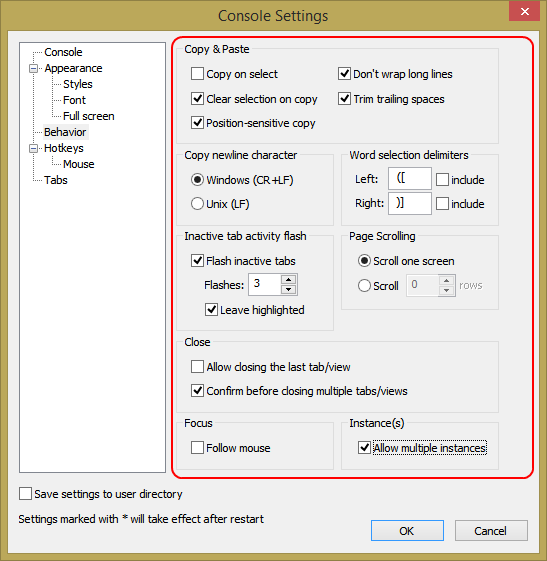
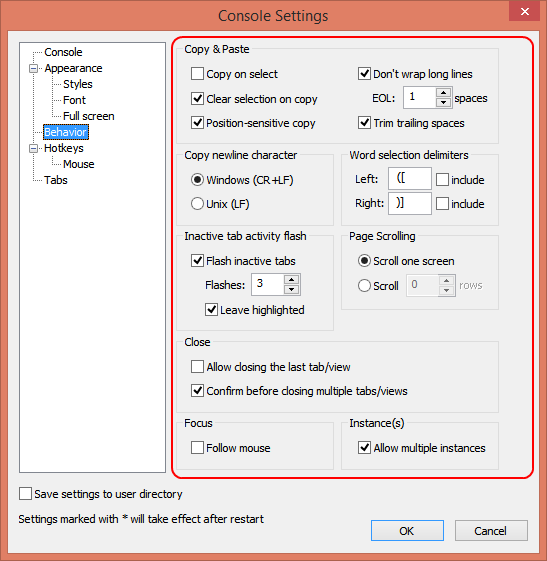
#70 can configure the number of spaces used to detect an end of line

diff --git a/help/html/settings_behavior.html b/help/html/settings_behavior.html
@@ -47,6 +47,11 @@
 		doesn't end with a space, a line break will not be inserted before
 		adding the next row.
 	</p>
+
+	<p class="block-row-name">EOL</p>
+	<p class="block-row-description">
+		Indicates the number of spaces used to detect an end of line.
+	</p>
 	<br />
 
 	<p class="block-row-name">Trim trailing spaces</p>
@@ -93,7 +98,7 @@
 		If checked, the inactive tabs flashes when some activities are detected in the corresponding console.
 	</p>
 
-	<p class="block-row-name">Falshes</p>
+	<p class="block-row-name">Flashes</p>
 	<p class="block-row-description">
 		Indicate the number of times an inactive tab will flash when some activities are detected in the corresponding console.
 	</p>

diff --git a/Console/DlgSettingsBehavior.cpp b/Console/DlgSettingsBehavior.cpp
@@ -59,6 +59,13 @@ LRESULT DlgSettingsBehavior::OnInitDialog(UINT /*uMsg*/, WPARAM /*wParam*/, LPAR
 	spin.SetAccel(1, &udAccel);
 	spin.Detach();
 
+	spin.Attach(GetDlgItem(IDC_SPIN_EOL_SPACES));
+	spin.SetRange(1, 15);
+	udAccel.nSec = 2;
+	udAccel.nInc = 1;
+	spin.SetAccel(1, &udAccel);
+	spin.Detach();
+
 	DoDataExchange(DDX_LOAD);
 
 	EnableScrollControls();
@@ -124,6 +131,18 @@ LRESULT DlgSettingsBehavior::OnClickedFlashTab(WORD /*wNotifyCode*/, WORD /*wID*
 
 
 //////////////////////////////////////////////////////////////////////////////
+
+LRESULT DlgSettingsBehavior::OnClickedNoWrap(WORD /*wNotifyCode*/, WORD /*wID*/, HWND /*hWndCtl*/, BOOL& /*bHandled*/)
+{
+	DoDataExchange(DDX_SAVE);
+	EnableNoWrapControls();
+	return 0;
+}
+
+//////////////////////////////////////////////////////////////////////////////
+
+
+//////////////////////////////////////////////////////////////////////////////
 //////////////////////////////////////////////////////////////////////////////
 //////////////////////////////////////////////////////////////////////////////
 
@@ -160,6 +179,7 @@ void DlgSettingsBehavior::EnableFlashTabControls()
 	GetDlgItem(IDC_TAB_FLASHES).EnableWindow(FALSE);
 	GetDlgItem(IDC_SPIN_TAB_FLASHES).EnableWindow(FALSE);
 	GetDlgItem(IDC_CHECK_LEAVE_HIGHLIGHTED).EnableWindow(FALSE);
+	GetDlgItem(IDC_STATIC_FLASHES).EnableWindow(FALSE);
 
 	if (m_bFlashInactiveTab)
 	{
@@ -172,7 +192,21 @@ void DlgSettingsBehavior::EnableFlashTabControls()
 		GetDlgItem(IDC_TAB_FLASHES).EnableWindow();
 		GetDlgItem(IDC_SPIN_TAB_FLASHES).EnableWindow();
 		GetDlgItem(IDC_CHECK_LEAVE_HIGHLIGHTED).EnableWindow();
+		GetDlgItem(IDC_STATIC_FLASHES).EnableWindow();
 	}
+}
+
+//////////////////////////////////////////////////////////////////////////////
+
+
+//////////////////////////////////////////////////////////////////////////////
+
+void DlgSettingsBehavior::EnableNoWrapControls()
+{
+	GetDlgItem(IDC_EOL_SPACES).EnableWindow(m_behaviorSettings.copyPasteSettings.bNoWrap);
+	GetDlgItem(IDC_SPIN_EOL_SPACES).EnableWindow(m_behaviorSettings.copyPasteSettings.bNoWrap);
+	GetDlgItem(IDC_STATIC_EOL_SPACES_1).EnableWindow(m_behaviorSettings.copyPasteSettings.bNoWrap);
+	GetDlgItem(IDC_STATIC_EOL_SPACES_2).EnableWindow(m_behaviorSettings.copyPasteSettings.bNoWrap);
 }
 
 //////////////////////////////////////////////////////////////////////////////

diff --git a/Console/SettingsHandler.cpp b/Console/SettingsHandler.cpp
@@ -846,6 +846,7 @@ CopyPasteSettings::CopyPasteSettings()
 , bIncludeRightDelimiter(false)
 , strLeftDelimiters(L" ([")
 , strRightDelimiters(L" )]")
+, dwEOLSpaces(1)
 {
 }
 
@@ -866,6 +867,7 @@ bool CopyPasteSettings::Load(const CComPtr<IXMLDOMElement>& pSettingsRoot)
 	XmlHelper::GetAttribute(pCopyPasteElement, CComBSTR(L"clear_on_copy"), bClearOnCopy, true);
 	XmlHelper::GetAttribute(pCopyPasteElement, CComBSTR(L"sensitive_copy"), bSensitiveCopy, true);
 	XmlHelper::GetAttribute(pCopyPasteElement, CComBSTR(L"no_wrap"), bNoWrap, false);
+	XmlHelper::GetAttribute(pCopyPasteElement, CComBSTR(L"eol_spaces"), dwEOLSpaces, 1);
 	XmlHelper::GetAttribute(pCopyPasteElement, CComBSTR(L"trim_spaces"), bTrimSpaces, false);
 	XmlHelper::GetAttribute(pCopyPasteElement, CComBSTR(L"copy_newline_char"), nNewlineChar, 0);
 	XmlHelper::GetAttribute(pCopyPasteElement, CComBSTR(L"include_left_delimiter"), bIncludeLeftDelimiter, false);
@@ -893,6 +895,7 @@ bool CopyPasteSettings::Save(const CComPtr<IXMLDOMElement>& pSettingsRoot)
 	XmlHelper::SetAttribute(pCopyPasteElement, CComBSTR(L"clear_on_copy"), bClearOnCopy);
 	XmlHelper::SetAttribute(pCopyPasteElement, CComBSTR(L"sensitive_copy"), bSensitiveCopy);
 	XmlHelper::SetAttribute(pCopyPasteElement, CComBSTR(L"no_wrap"), bNoWrap);
+	XmlHelper::SetAttribute(pCopyPasteElement, CComBSTR(L"eol_spaces"), dwEOLSpaces);
 	XmlHelper::SetAttribute(pCopyPasteElement, CComBSTR(L"trim_spaces"), bTrimSpaces);
 	XmlHelper::SetAttribute(pCopyPasteElement, CComBSTR(L"copy_newline_char"), static_cast<int>(copyNewlineChar));
 
@@ -921,6 +924,7 @@ CopyPasteSettings& CopyPasteSettings::operator=(const CopyPasteSettings& other)
 	bIncludeRightDelimiter	= other.bIncludeRightDelimiter;
 	strLeftDelimiters	= other.strLeftDelimiters;
 	strRightDelimiters	= other.strRightDelimiters;
+	dwEOLSpaces = other.dwEOLSpaces;
 
 	return *this;
 }

diff --git a/Console/DlgSettingsBehavior.h b/Console/DlgSettingsBehavior.h
@@ -25,6 +25,7 @@ class DlgSettingsBehavior
 			DDX_CHECK(IDC_CHECK_CLEAR_ON_COPY, m_behaviorSettings.copyPasteSettings.bClearOnCopy)
 			DDX_CHECK(IDC_CHECK_SENSITIVE_COPY, m_behaviorSettings.copyPasteSettings.bSensitiveCopy)
 			DDX_CHECK(IDC_CHECK_NO_WRAP, m_behaviorSettings.copyPasteSettings.bNoWrap)
+			DDX_UINT(IDC_EOL_SPACES, m_behaviorSettings.copyPasteSettings.dwEOLSpaces)
 			DDX_CHECK(IDC_CHECK_TRIM_SPACES, m_behaviorSettings.copyPasteSettings.bTrimSpaces)
 			DDX_RADIO(IDC_RADIO_COPY_NEWLINE_CHAR, m_nCopyNewlineChar)
 			DDX_RADIO(IDC_PAGE_SCROLL, m_nScrollPageType)
@@ -51,6 +52,7 @@ class DlgSettingsBehavior
 			COMMAND_ID_HANDLER(IDCANCEL, OnCloseCmd)
 			COMMAND_RANGE_CODE_HANDLER(IDC_PAGE_SCROLL, IDC_PAGE_SCROLL2, BN_CLICKED, OnClickedScrollType)
 			COMMAND_HANDLER(IDC_CHECK_FLASH_TAB, BN_CLICKED, OnClickedFlashTab)
+			COMMAND_HANDLER(IDC_CHECK_NO_WRAP, BN_CLICKED, OnClickedNoWrap)
 		END_MSG_MAP()
 
 // Handler prototypes (uncomment arguments if needed):
@@ -63,11 +65,13 @@ class DlgSettingsBehavior
 		LRESULT OnCloseCmd(WORD /*wNotifyCode*/, WORD wID, HWND /*hWndCtl*/, BOOL& /*bHandled*/);
 		LRESULT OnClickedScrollType(WORD /*wNotifyCode*/, WORD /*wID*/, HWND /*hWndCtl*/, BOOL& /*bHandled*/);
 		LRESULT OnClickedFlashTab(WORD /*wNotifyCode*/, WORD /*wID*/, HWND /*hWndCtl*/, BOOL& /*bHandled*/);
+		LRESULT OnClickedNoWrap(WORD /*wNotifyCode*/, WORD /*wID*/, HWND /*hWndCtl*/, BOOL& /*bHandled*/);
 
 	private:
 
 		void EnableScrollControls();
 		void EnableFlashTabControls();
+		void EnableNoWrapControls();
 
 
 	private:

diff --git a/ConsoleHook/ConsoleHandler.cpp b/ConsoleHook/ConsoleHandler.cpp
@@ -520,7 +520,7 @@ public:
   virtual void StartRow(void) = 0;
   virtual void EndRow(void) = 0;
   virtual void AddChar(PCHAR_INFO) = 0;
-  virtual bool IsLastCharBlank(void) = 0;
+  virtual bool IsEOL(DWORD dwEOLSpaces) = 0;
   virtual size_t GetRowLength(void) = 0;
   virtual void TrimRight(void) = 0;
   virtual void Wrap(CopyNewlineChar) = 0;
@@ -582,12 +582,12 @@ public:
   {
     strRow += p->Char.UnicodeChar;
   }
-  virtual bool IsLastCharBlank(void)
+  virtual bool IsEOL(DWORD dwEOLSpaces)
   {
 		size_t len = strRow.length();
-		if( len < 3 ) return false;
+		if( len < dwEOLSpaces ) return false;
 
-		for(size_t i = (len - 3); i < len; ++i)
+		for(size_t i = (len - dwEOLSpaces); i < len; ++i)
 			if( strRow[i] != L' ' )
 				return false;
 
@@ -739,7 +739,7 @@ public:
     sizeRowLen ++;
     sizeRtfLen ++;
   }
-  virtual bool IsLastCharBlank(void)
+  virtual bool IsEOL(DWORD /*dwEOLSpaces*/)
   {
     return !strTrimRowRtf.empty();
   }
@@ -899,7 +899,7 @@ void ConsoleHandler::CopyConsoleText()
 		else
 		{
 			// rows between first and (last - 1)
-			if (m_consoleCopyInfo->bNoWrap && (!clipboardDataPtr[0]->IsLastCharBlank()))
+			if (m_consoleCopyInfo->bNoWrap && (!clipboardDataPtr[0]->IsEOL(m_consoleCopyInfo->dwEOLSpaces)))
 			{
 				bWrap       = false;
 				bTrimSpaces = false;

diff --git a/Console/SelectionHandler.cpp b/Console/SelectionHandler.cpp
@@ -368,9 +368,10 @@ void SelectionHandler::CopySelection()
 		
 		GetSelectionCoordinates(m_consoleCopyInfo->coordStart, m_consoleCopyInfo->coordEnd);
 
-		m_consoleCopyInfo->bNoWrap		= g_settingsHandler->GetBehaviorSettings().copyPasteSettings.bNoWrap;
-		m_consoleCopyInfo->bTrimSpaces	= g_settingsHandler->GetBehaviorSettings().copyPasteSettings.bTrimSpaces;
-		m_consoleCopyInfo->copyNewlineChar= g_settingsHandler->GetBehaviorSettings().copyPasteSettings.copyNewlineChar;
+		m_consoleCopyInfo->bNoWrap         = g_settingsHandler->GetBehaviorSettings().copyPasteSettings.bNoWrap;
+		m_consoleCopyInfo->dwEOLSpaces     = g_settingsHandler->GetBehaviorSettings().copyPasteSettings.dwEOLSpaces;
+		m_consoleCopyInfo->bTrimSpaces     = g_settingsHandler->GetBehaviorSettings().copyPasteSettings.bTrimSpaces;
+		m_consoleCopyInfo->copyNewlineChar = g_settingsHandler->GetBehaviorSettings().copyPasteSettings.copyNewlineChar;
     _snprintf_s(
       m_consoleCopyInfo->szFontName, sizeof(m_consoleCopyInfo->szFontName),
       _TRUNCATE,

diff --git a/Console/resource.h b/Console/resource.h
@@ -271,6 +271,11 @@
 #define IDC_SPIN_H                      1202
 #define IDC_CHECK_MULTI_INSTANCES       1203
 #define IDC_CHECK_HIDE_TAB_ICONS        1204
+#define IDC_EOL_SPACES                  1205
+#define IDC_SPIN_EOL_SPACES             1206
+#define IDC_STATIC_EOL_SPACES_1         1207
+#define IDC_STATIC_EOL_SPACES_2         1208
+#define IDC_STATIC_FLASHES              1209
 
 #define ID_NEW_TAB_1                    2000
 #define ID_SWITCH_TAB_1                 2100
@@ -334,7 +339,7 @@
 #ifndef APSTUDIO_READONLY_SYMBOLS
 #define _APS_NEXT_RESOURCE_VALUE        219
 #define _APS_NEXT_COMMAND_VALUE         32800
-#define _APS_NEXT_CONTROL_VALUE         1205
+#define _APS_NEXT_CONTROL_VALUE         1210
 #define _APS_NEXT_SYMED_VALUE           101
 #endif
 #endif

diff --git a/Console/DlgSettingsStyles.cpp b/Console/DlgSettingsStyles.cpp
@@ -256,14 +256,9 @@ void DlgSettingsStyles::UpdateSliderText(HWND hwndSlider)
 
 void DlgSettingsStyles::EnableTabControls()
 {
-	GetDlgItem(IDC_CHECK_HIDE_SINGLE_TAB).EnableWindow(FALSE);
-	GetDlgItem(IDC_CHECK_TABS_ON_BOTTOM).EnableWindow(FALSE);
-
-	if (m_controlsSettings.bShowTabs)
-	{
-		GetDlgItem(IDC_CHECK_HIDE_SINGLE_TAB).EnableWindow();
-		GetDlgItem(IDC_CHECK_TABS_ON_BOTTOM).EnableWindow();
-	}
+	GetDlgItem(IDC_CHECK_HIDE_SINGLE_TAB).EnableWindow(m_controlsSettings.bShowTabs);
+	GetDlgItem(IDC_CHECK_TABS_ON_BOTTOM).EnableWindow(m_controlsSettings.bShowTabs);
+	GetDlgItem(IDC_CHECK_HIDE_TAB_ICONS).EnableWindow(m_controlsSettings.bShowTabs);
 }
 
 void DlgSettingsStyles::EnableScrollbarControls()

diff --git a/shared/Structures.h b/shared/Structures.h
@@ -110,6 +110,7 @@ struct ConsoleCopy
 	: coordStart()
 	, coordEnd()
 	, bNoWrap(false)
+	, dwEOLSpaces(1)
 	, bTrimSpaces(false)
 	, copyNewlineChar(newlineCRLF)
 	, bBold(false)
@@ -140,10 +141,11 @@ struct ConsoleCopy
 	COORD	coordEnd;
 	bool	bNoWrap;
 	bool	bTrimSpaces;
-	CopyNewlineChar	copyNewlineChar;
 	bool  bBold;
 	bool  bItalic;
+	CopyNewlineChar	copyNewlineChar;
 	DWORD dwSize;
+	DWORD dwEOLSpaces;
 	char szFontName [256];
 	COLORREF consoleColors[16];
 };

diff --git a/Console/SettingsHandler.h b/Console/SettingsHandler.h
@@ -324,6 +324,7 @@ struct CopyPasteSettings : public SettingsBase
 	std::wstring strRightDelimiters;
 
 	CopyNewlineChar	copyNewlineChar;
+	DWORD			dwEOLSpaces;
 };
 
 //////////////////////////////////////////////////////////////////////////////
